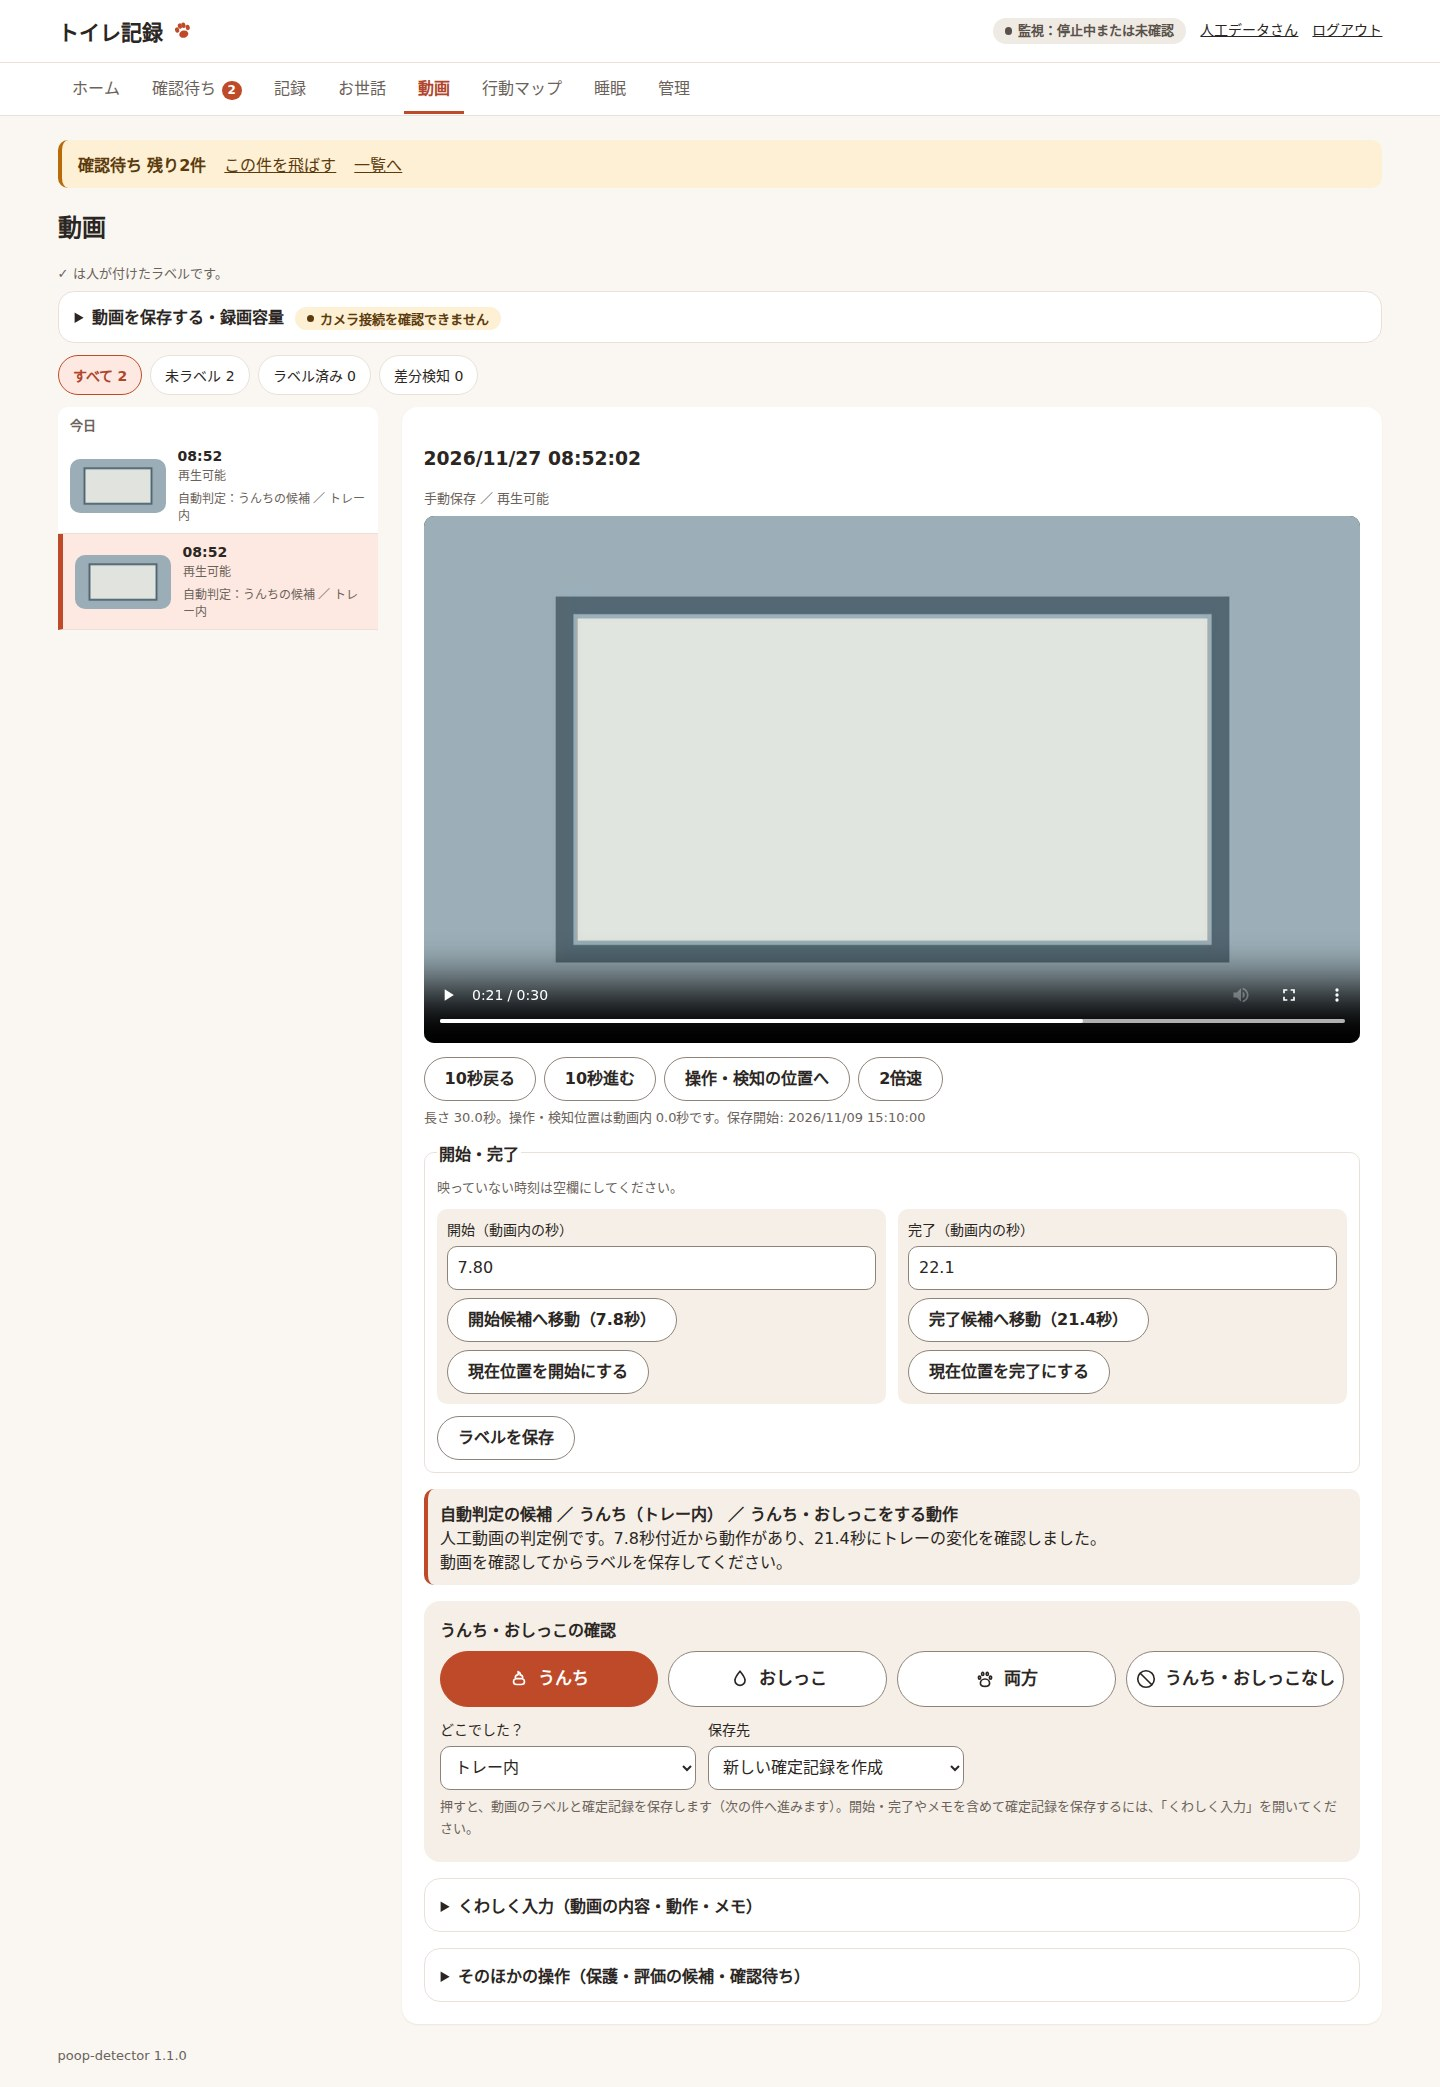
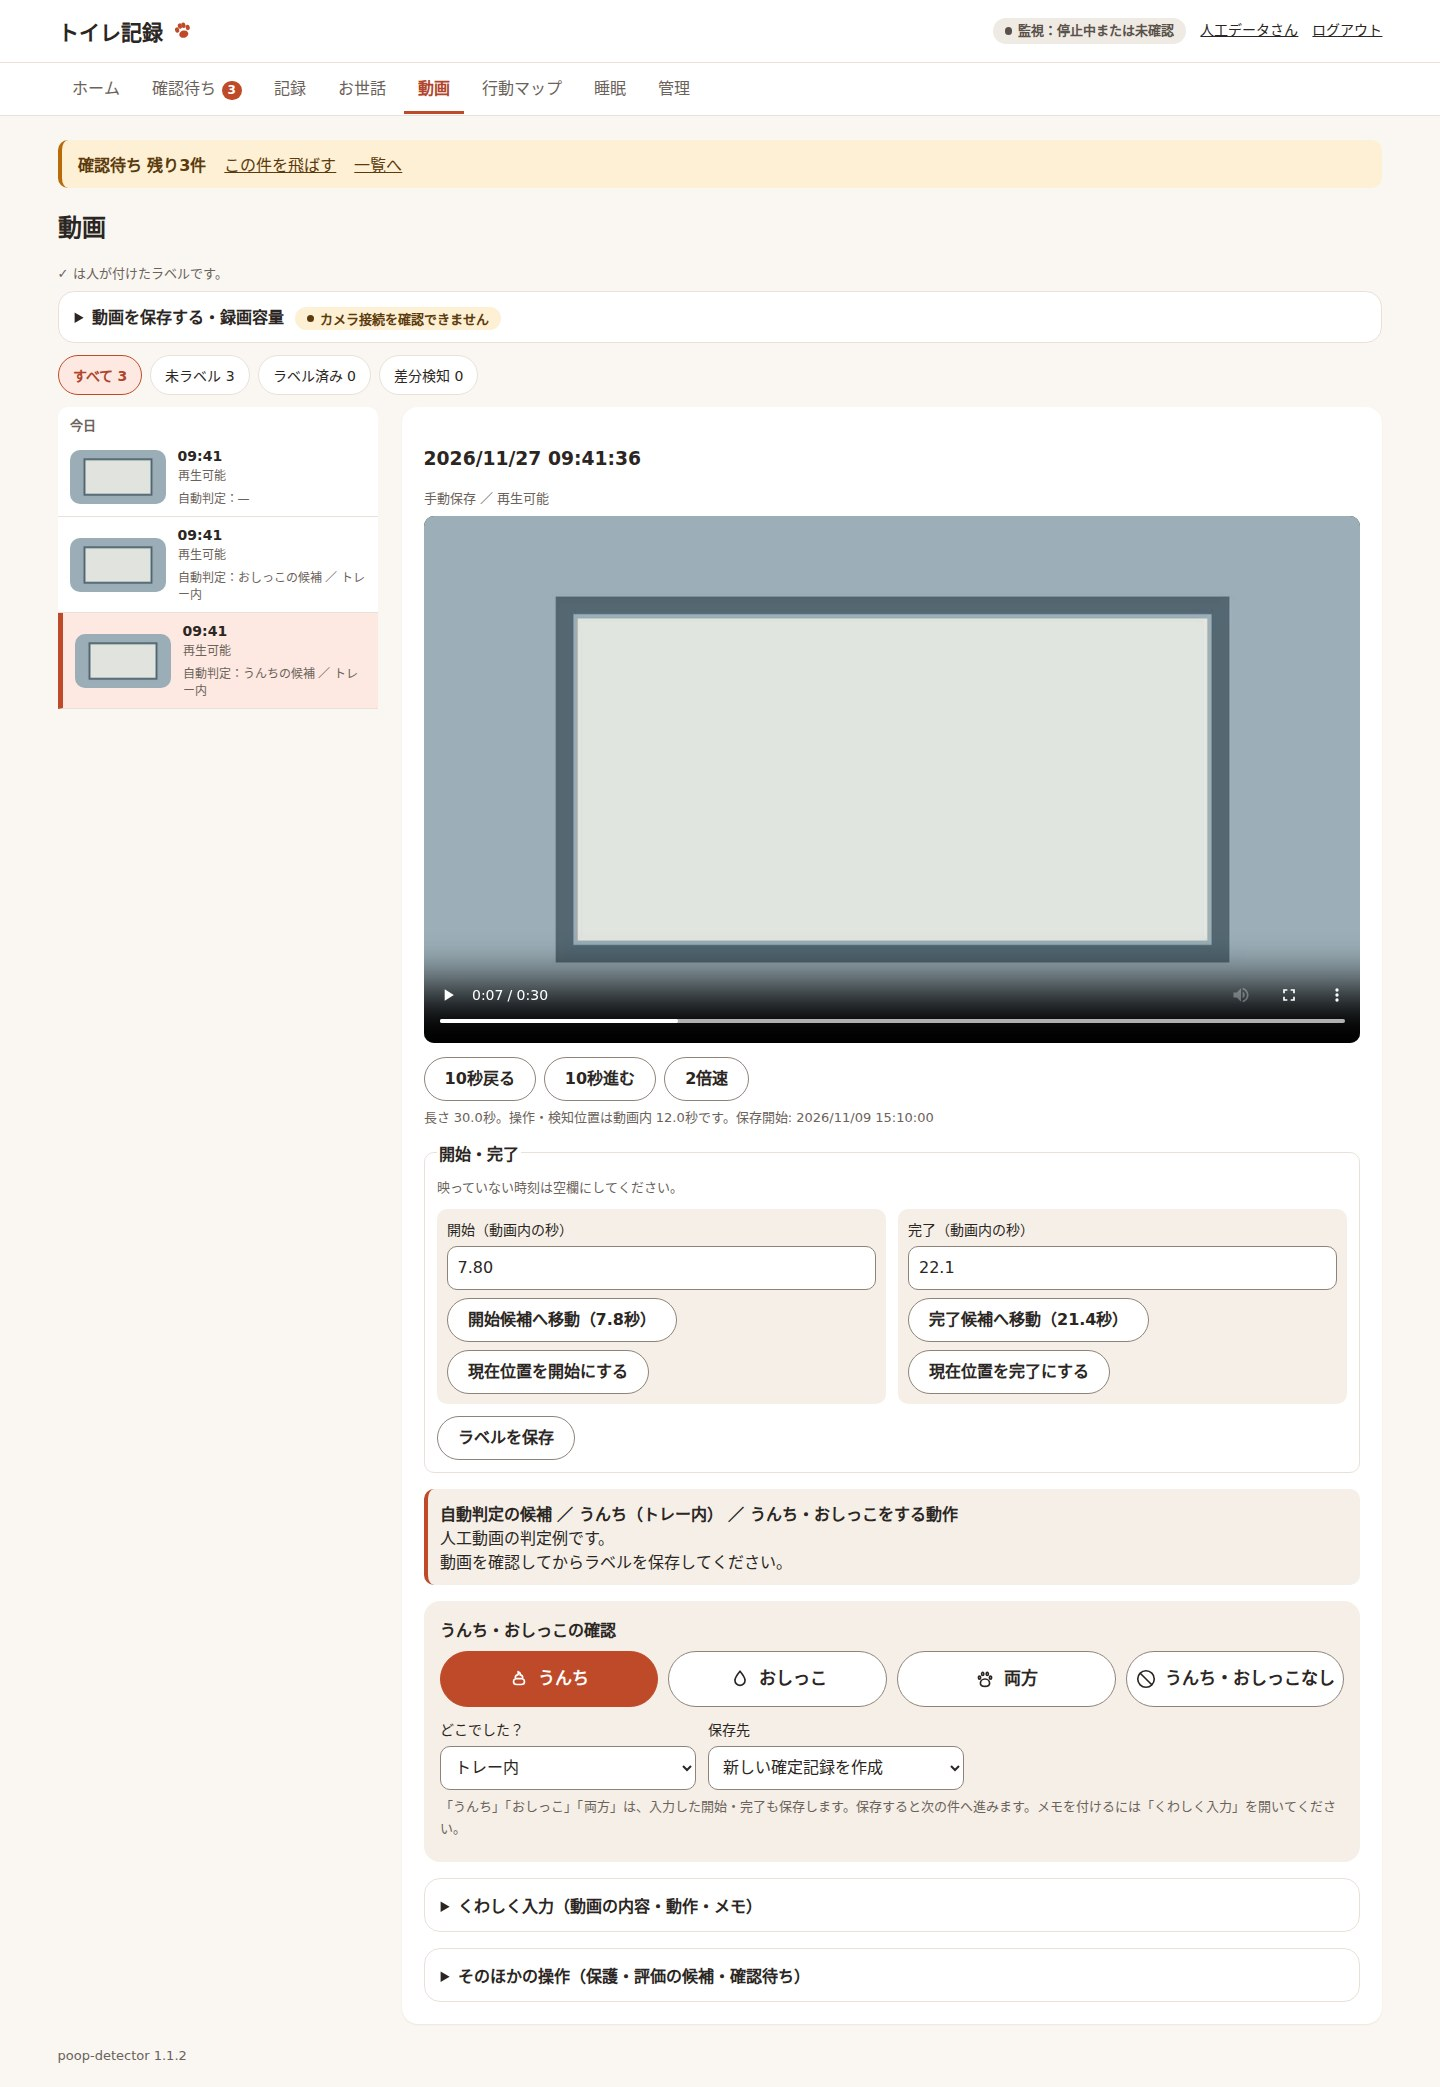
fix: 動画のクイック保存に開始と完了を含める

diff --git a/src/poop_detector/gui/templates/clips.html b/src/poop_detector/gui/templates/clips.html
@@ -36,20 +36,20 @@
 {% if clip.ready %}
 <video controls preload="metadata" class="clip-video" playsinline poster="/clip-thumbnail?id={{ clip.id }}" src="/clip-video?id={{ clip.id }}{{ seek }}">動画を再生できません。</video>
 {#- 確認のための再生の操作。ブラウザーの標準の操作バーより大きく押せるボタンにする（static/clips.js）。 -#}
-<div class="video-controls"><button class="secondary" type="button" data-video-jump="-10">10秒戻る</button><button class="secondary" type="button" data-video-jump="10">10秒進む</button><button class="secondary" type="button" data-video-seek="{{ clip.trigger_offset }}">操作・検知の位置へ</button><button class="secondary" type="button" data-video-rate="2" aria-pressed="false">2倍速</button></div><p class="note">長さ {{ "%.1f"|format(clip.duration) }}秒。操作・検知位置は動画内 {{ "%.1f"|format(clip.trigger_offset) }}秒です。保存開始: {{ clip.start_time }}</p>
+<div class="video-controls"><button class="secondary" type="button" data-video-jump="-10">10秒戻る</button><button class="secondary" type="button" data-video-jump="10">10秒進む</button>{% if form.offsets.start.candidate is none and 0 < clip.trigger_offset <= clip.duration %}<button class="secondary" type="button" data-video-seek="{{ clip.trigger_offset }}">操作・検知の位置へ</button>{% endif %}<button class="secondary" type="button" data-video-rate="2" aria-pressed="false">2倍速</button></div><p class="note">長さ {{ "%.1f"|format(clip.duration) }}秒。操作・検知位置は動画内 {{ "%.1f"|format(clip.trigger_offset) }}秒です。保存開始: {{ clip.start_time }}</p>
 {% if clip.interrupted %}<div class="message message-warn">切断・停止・フレーム欠落がある部分動画です。欠落区間では同じフレームを表示することがあります。</div>{% endif %}
 <fieldset class="clip-timing">
 <legend>開始・完了</legend>
 <p class="note">映っていない時刻は空欄にしてください。</p>
 <div class="clip-offsets">
-{% for offset in form.offsets %}
+{% for name, offset in form.offsets.items() %}
 <div class="clip-offset">
 <label>{{ offset.text }}（動画内の秒）
-<input type="number" min="0" max="{{ clip.duration }}" step="0.01" name="{{ offset.name }}" form="clip-label-form" value="{{ offset.value }}">
+<input type="number" min="0" max="{{ clip.duration }}" step="0.01" name="{{ name }}" form="clip-label-form" value="{{ offset.value }}">
 </label>
 <div class="clip-offset-actions">
 {% if offset.candidate is not none %}<button class="secondary" type="button" data-video-seek="{{ offset.candidate }}">{{ offset.text }}候補へ移動（{{ "%g"|format(offset.candidate) }}秒）</button>{% endif %}
-<button class="secondary" type="button" data-video-offset="{{ offset.name }}">現在位置を{{ offset.text }}にする</button>
+<button class="secondary" type="button" data-video-offset="{{ name }}">現在位置を{{ offset.text }}にする</button>
 </div>
 </div>
 {% endfor %}
@@ -85,7 +85,7 @@
 {% for record in confirmation.candidates %}<option value="{{ record.id }}" data-record-location="{{ record.location }}"{% if record.selected %} selected{% endif %}{% if record.disabled %} disabled{% endif %}>{{ record.time }} {{ record.label }}</option>{% endfor %}
 <option value="new" data-tray-event="{{ 1 if confirmation.tray_event else 0 }}"{% if confirmation.new_disabled %} disabled{% endif %}>新しい確定記録を作成</option>
 </select></label></div>
-<p class="note">押すと、動画のラベルと確定記録を保存します{% if review %}（次の件へ進みます）{% endif %}。開始・完了やメモを含めて確定記録を保存するには、「くわしく入力」を開いてください。</p>
+<p class="note">「うんち」「おしっこ」「両方」は、入力した開始・完了も保存します。{% if review %}保存すると次の件へ進みます。{% endif %}メモを付けるには「くわしく入力」を開いてください。</p>
 </form>
 {% endif %}
 <details class="clip-more"{% if not quick %} open{% endif %}><summary>くわしく入力（動画の内容・動作・メモ）</summary>

diff --git a/src/poop_detector/gui/static/clips.js b/src/poop_detector/gui/static/clips.js
@@ -92,3 +92,19 @@ document.addEventListener("change", (event) => {
         if (option.selected && option.disabled) destination.value = "";
     }
 });
+
+document.addEventListener("submit", (event) => {
+    const form = event.target;
+    if (!form.matches("#clip-detail form.quick-confirm") || event.submitter?.value === "none") return;
+
+    // 詳細入力と共通の時刻欄を確認し、押されたボタンの送信データに加える。
+    const labelForm = form.closest("#clip-detail").querySelector("#clip-label-form");
+    const offsets = ["start", "end"].map((name) => labelForm.elements.namedItem(name));
+    if (!offsets.every((offset) => offset.reportValidity())) {
+        event.preventDefault();
+        return;
+    }
+    form.addEventListener("formdata", ({formData}) => {
+        for (const offset of offsets) formData.set(offset.name, offset.value);
+    }, {once: true});
+});

diff --git a/tests/test_mobile_clip_review.py b/tests/test_mobile_clip_review.py
@@ -1,5 +1,6 @@
 """動画通知から該当位置を開き、スマホで確定できることを確認する。"""
 
+import pytest
 from support import ready_clip, request, submit
 
 from poop_detector.video.clip_reviews import Assessment
@@ -36,6 +37,63 @@ def test_missing_notification_clip_shows_manual_entry(gui):
     assert status == 200
     assert "指定された動画を確認できません" in body.decode()
     assert b'href="/records/new"' in body
+
+
+@pytest.mark.parametrize(
+    ("label", "start", "end", "actual_start", "actual_end"),
+    [
+        ("feces", "0", "11.25", "06:10:00", "06:10:11.250000"),
+        ("urine", "5.25", "", "06:10:05.250000", None),
+        ("both", "", "11", None, "06:10:11"),
+    ],
+)
+def test_quick_confirmation_saves_video_offsets_and_record_times(
+    gui, label, start, end, actual_start, actual_end
+):
+    server, store, _ = gui
+    clips = ClipStore(store.root)
+    clip = ready_clip(clips)
+
+    fields = {"id": clip, "label": label, "start": start, "end": end}
+    assert submit(server, "/clips/quick", fields)[0] == 303
+    saved = clips.get(clip)
+    assert saved["actual_start_offset"] == (float(start) if start else None)
+    assert saved["actual_end_offset"] == (float(end) if end else None)
+    (record,) = store.records()
+    assert record["excretion_type"] == label
+    assert record["actual_start"] == (f"2026-11-09T{actual_start}+00:00" if actual_start else None)
+    assert record["actual_end"] == (f"2026-11-09T{actual_end}+00:00" if actual_end else None)
+
+
+def test_quick_confirmation_rejects_reversed_offsets(gui):
+    server, store, _ = gui
+    clips = ClipStore(store.root)
+    clip = ready_clip(clips)
+
+    fields = {"id": clip, "label": "feces", "start": "12", "end": "11"}
+    assert submit(server, "/clips/quick", fields)[0] == 400
+    assert clips.get(clip)["label"] is None
+    assert store.records() == []
+
+
+@pytest.mark.parametrize(
+    ("candidate_start", "trigger_offset", "show_trigger"),
+    [(None, 10, True), (0, 10, False), (None, 0, False)],
+)
+def test_trigger_seek_is_shown_only_as_a_fallback(
+    gui, candidate_start, trigger_offset, show_trigger
+):
+    server, store, _ = gui
+    clips = ClipStore(store.root)
+    clip = ready_clip(clips)
+    clips.update(clip, trigger_offset=trigger_offset)
+    clips.assessments.save(
+        clip, Assessment(label="feces", activity="excreting", start_seconds=candidate_start)
+    )
+
+    page = request(server, "GET", f"/clips?id={clip}")[1].decode()
+    assert ("開始候補へ移動" in page) == (candidate_start is not None)
+    assert ("操作・検知の位置へ" in page) == show_trigger
 
 
 def test_notification_opens_the_requested_clip_while_it_is_recording(gui):

diff --git a/src/poop_detector/gui/clip_routes.py b/src/poop_detector/gui/clip_routes.py
@@ -73,13 +73,17 @@ def protect_clip(handler: Exchange, form: Form) -> None:
     _saved(handler, form, clip_id)
 
 
+def _offset(value: str | None) -> float | None:
+    return float(value) if value else None
+
+
 def _save_label(handler: Exchange, form: Form, record_id: str | None) -> str:
     fields = form.fields
     clip_id = fields.get("id", "")
     label = ClipLabel(
         fields.get("label", ""),
-        float(fields["start"]) if fields.get("start") else None,
-        float(fields["end"]) if fields.get("end") else None,
+        _offset(fields.get("start")),
+        _offset(fields.get("end")),
         fields.get("activity", "other"),
         fields.get("note", ""),
         fields.get("location"),
@@ -129,6 +133,8 @@ def quick_clip(handler: Exchange, form: Form) -> None:
             clip_id,
             ClipLabel(
                 label,
+                start=_offset(fields.get("start")) if label != "none" else None,
+                end=_offset(fields.get("end")) if label != "none" else None,
                 activity="other" if label == "none" else "excreting",
                 location=fields.get("location") or None,
             ),

diff --git a/src/poop_detector/gui/clip_pages.py b/src/poop_detector/gui/clip_pages.py
@@ -271,17 +271,14 @@ def label_form(row: Mapping[str, Any], assessment: Mapping[str, Any] | None) -> 
     """動画のラベル入力欄の初期値。自動判定が下書きなら、その値を使う。"""
     candidates = assessment if assessment and not assessment["error"] else {}
     draft = candidates if row["label"] is None else {}
-    offsets = []
+    offsets = {}
     for name, text in [("start", "開始"), ("end", "完了")]:
         value = row["actual_" + name + "_offset"]
-        offsets.append(
-            {
-                "name": name,
-                "text": text,
-                "value": "" if value is None else str(value),
-                "candidate": candidates.get(f"{name}_seconds"),
-            }
-        )
+        offsets[name] = {
+            "text": text,
+            "value": "" if value is None else str(value),
+            "candidate": candidates.get(f"{name}_seconds"),
+        }
     condition = row.get("stool_condition") if row["label"] is not None else None
     return {
         "label": row["label"] or draft.get("label", "uncertain"),

diff --git a/docs/video.md b/docs/video.md
@@ -28,9 +28,10 @@ uv run poop-detector gui
 
 - 「今の前後の動画を保存」と録画容量は、一覧の上の「動画を保存する・録画容量」を開くと出ます。監視・カメラ接続中に使えます（カメラ接続を確認できないときは、たたんだ見出しにもそう出ます）。食事・座る・匂いを嗅ぐなど、排泄以外の場面も保存してください。
 - 操作後30秒の録画と MP4 変換が終わると、画面が自動で更新されて再生できるようになります。動画の再生中やラベルの入力中は読み直さず、「更新」を促す知らせを出します。
-- まだ確かめていない動画には、動画の下に「排便・排尿・両方・排泄なし」の大きなボタンが出ます。1回押すと、動画のラベルと確定記録を保存します。自動判定の候補があれば、その種類のボタンだけが塗りになります。
+- まだ確かめていない動画には、動画の下に「うんち」「おしっこ」「両方」「うんち・おしっこなし」のボタンが出ます。「うんち」「おしっこ」「両方」を押すと、入力した開始・完了も一緒に保存します。自動判定の候補があれば、その種類のボタンだけが塗りになります。
 - 開始・完了は動画の下で編集します。「候補へ移動」で映像を確認し、「現在位置を開始にする」「現在位置を完了にする」で再生位置を取り込みます。秒数を直接入力することもでき、映っていない時刻は空欄にできます。
-- 動作タグ、メモ、「判断できない」は「くわしく入力」で指定します。時刻も含めて確定記録を作るには、「くわしく入力」の「ラベルと確定記録を保存」を押します。
+- 開始候補がなく、動画の途中に操作・検知の位置がある場合は、「操作・検知の位置へ」でその場面を開けます。
+- 動作タグ、メモ、「判断できない」は「くわしく入力」で指定します。詳細欄の内容も含めて確定記録を作るには、「ラベルと確定記録を保存」を押します。
 - 同じ排泄の検知や確定記録があれば保存先で選びます。排便・排尿の記録一覧の「映像を見る」から確認に使った動画を開けます。
 - 動画ラベルだけを残す場合は、開始・完了欄の下か「くわしく入力」の「ラベルを保存」を押します。動画の保護と評価の候補は「そのほかの操作」にあります。自動学習はまだ行いません。
 - 古いクリップを選んでも、一覧の位置を保ったまま動画とラベル欄が切り替わります。
